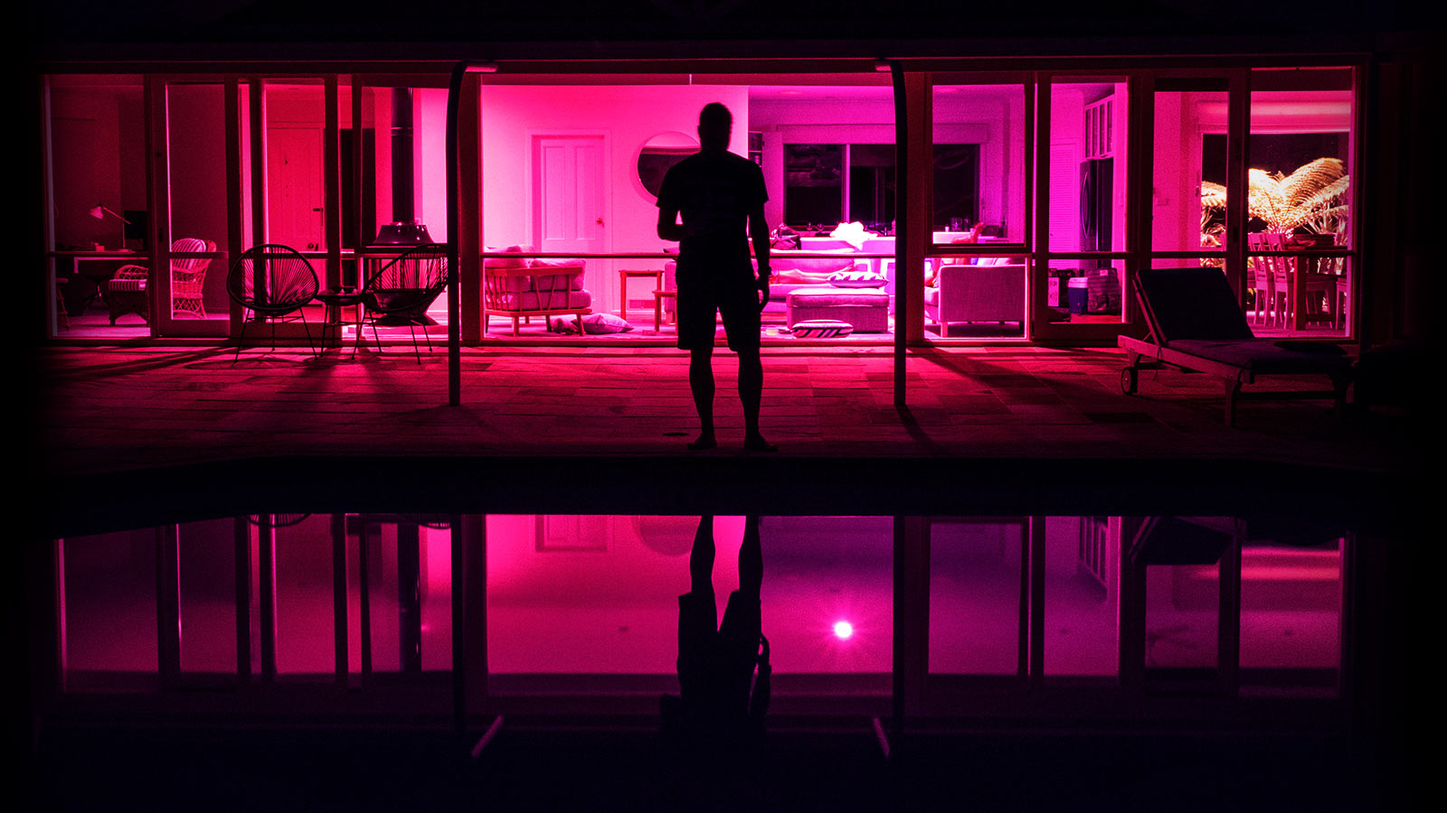
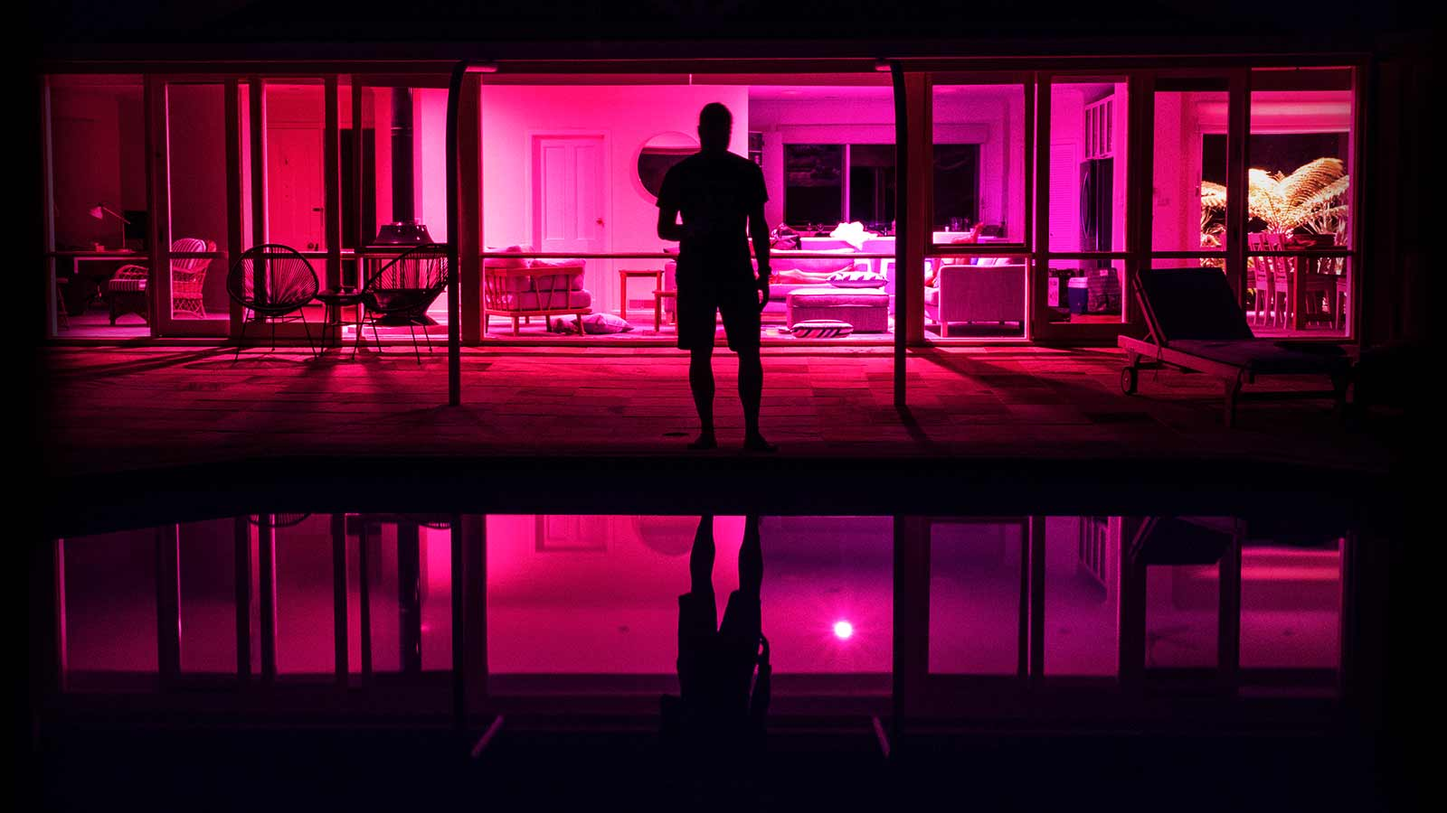
Remove unused images. Improve compression of masthead background

diff --git a/docs/styles/main.css b/docs/styles/main.css
@@ -1,1 +1,1 @@
-/*! normalize.css v5.0.0 | MIT License | github.com/necolas/normalize.css */html{font-family:sans-serif;line-height:1.15;-ms-text-size-adjust:100%;-webkit-text-size-adjust:100%}body{margin:0}article,aside,footer,header,nav,section{display:block}h1{font-size:2em;margin:.67em 0}main{display:block}hr{box-sizing:content-box;height:0;overflow:visible}pre{font-family:monospace,monospace;font-size:1em}a{background-color:transparent;-webkit-text-decoration-skip:objects}a:active,a:hover{outline-width:0}b,strong{font-weight:inherit;font-weight:bolder}code{font-family:monospace,monospace;font-size:1em}mark{background-color:#ff0;color:#000}small{font-size:80%}audio,video{display:inline-block}img{border-style:none}svg:not(:root){overflow:hidden}button,input,select,textarea{font-family:sans-serif;font-size:100%;line-height:1.15;margin:0}button,input{overflow:visible}button,select{text-transform:none}[type=submit],button,html [type=button]{-webkit-appearance:button}[type=button]::-moz-focus-inner,[type=submit]::-moz-focus-inner,button::-moz-focus-inner{border-style:none;padding:0}[type=button]:-moz-focusring,[type=submit]:-moz-focusring,button:-moz-focusring{outline:1px dotted ButtonText}progress{display:inline-block;vertical-align:baseline}textarea{overflow:auto}[type=checkbox],[type=radio]{box-sizing:border-box;padding:0}[type=number]::-webkit-inner-spin-button,[type=number]::-webkit-outer-spin-button{height:auto}[type=search]{-webkit-appearance:textfield;outline-offset:-2px}[type=search]::-webkit-search-cancel-button,[type=search]::-webkit-search-decoration{-webkit-appearance:none}::-webkit-file-upload-button{-webkit-appearance:button;font:inherit}details,menu{display:block}summary{display:list-item}canvas{display:inline-block}html{box-sizing:border-box}*,:after,:before{box-sizing:inherit}@-ms-viewport{width:device-width}html{-ms-overflow-style:scrollbar;-webkit-tap-highlight-color:transparent}body{font-family:-apple-system,system-ui,BlinkMacSystemFont,Segoe UI,Roboto,Helvetica Neue,Arial,sans-serif;font-size:1rem;font-weight:400;line-height:1.5;color:rgba(0,0,0,.75);background-color:#fff}[tabindex="-1"]:focus{outline:none!important}h1,h2,h3,h4{margin-top:0}dl,ol,p,ul{margin-top:0;margin-bottom:1rem}ol ol,ul ul{margin-bottom:0}dt{font-weight:700}dd{margin-bottom:.5rem;margin-left:0}a{color:#6c1dae;text-decoration:none}a:focus,a:hover{color:#43126c;text-decoration:underline}a:not([href]):not([tabindex]),a:not([href]):not([tabindex]):focus,a:not([href]):not([tabindex]):hover{color:inherit;text-decoration:none}a:not([href]):not([tabindex]):focus{outline:0}pre{margin-top:0;margin-bottom:1rem;overflow:auto}img{vertical-align:middle}a,button,input,label,select,summary,textarea{-ms-touch-action:manipulation;touch-action:manipulation}table{border-collapse:collapse;background-color:transparent}caption{padding-top:.75rem;padding-bottom:.75rem;color:hsla(0,0%,100%,.5);caption-side:bottom}caption,th{text-align:left}label{display:inline-block;margin-bottom:.5rem}button:focus{outline:1px dotted;outline:5px auto -webkit-focus-ring-color}button,input,select,textarea{line-height:inherit}input[type=checkbox]:disabled,input[type=radio]:disabled{cursor:not-allowed}input[type=date],input[type=time]{-webkit-appearance:listbox}textarea{resize:vertical}input[type=search]{-webkit-appearance:none}h1,h2,h3,h4{margin-bottom:.5rem;font-family:inherit;font-weight:500;line-height:1.1;color:inherit}h1{font-size:2.5rem}h2{font-size:2rem}h3{font-size:1.75rem}h4{font-size:1.5rem}.lead{font-size:1.25rem;font-weight:300}hr{margin-top:1rem;margin-bottom:1rem;border:0;border-top:1px solid rgba(0,0,0,.1)}.small,small{font-size:80%;font-weight:400}mark{padding:.2em;background-color:#fcf8e3}.container{position:relative;margin-left:auto;margin-right:auto;padding-right:15px;padding-left:15px}@media (min-width:576px){.container{padding-right:15px;padding-left:15px}}@media (min-width:768px){.container{padding-right:15px;padding-left:15px}}@media (min-width:992px){.container{padding-right:15px;padding-left:15px}}@media (min-width:1200px){.container{padding-right:15px;padding-left:15px}}@media (min-width:576px){.container{width:540px;max-width:100%}}@media (min-width:768px){.container{width:720px;max-width:100%}}@media (min-width:992px){.container{width:960px;max-width:100%}}@media (min-width:1200px){.container{width:1140px;max-width:100%}}.row{display:-webkit-box;display:-ms-flexbox;display:flex;-ms-flex-wrap:wrap;flex-wrap:wrap;margin-right:-15px;margin-left:-15px}@media (min-width:576px){.row{margin-right:-15px;margin-left:-15px}}@media (min-width:768px){.row{margin-right:-15px;margin-left:-15px}}@media (min-width:992px){.row{margin-right:-15px;margin-left:-15px}}@media (min-width:1200px){.row{margin-right:-15px;margin-left:-15px}}.col-4,.col-6,.col-lg-2,.col-lg-4,.col-lg-8,.col-md-3,.col-sm-4,.col-sm-5,.col-sm-6,.col-sm-7{position:relative;width:100%;min-height:1px;padding-right:15px;padding-left:15px}@media (min-width:576px){.col-4,.col-6,.col-lg-2,.col-lg-4,.col-lg-8,.col-md-3,.col-sm-4,.col-sm-5,.col-sm-6,.col-sm-7{padding-right:15px;padding-left:15px}}@media (min-width:768px){.col-4,.col-6,.col-lg-2,.col-lg-4,.col-lg-8,.col-md-3,.col-sm-4,.col-sm-5,.col-sm-6,.col-sm-7{padding-right:15px;padding-left:15px}}@media (min-width:992px){.col-4,.col-6,.col-lg-2,.col-lg-4,.col-lg-8,.col-md-3,.col-sm-4,.col-sm-5,.col-sm-6,.col-sm-7{padding-right:15px;padding-left:15px}}@media (min-width:1200px){.col-4,.col-6,.col-lg-2,.col-lg-4,.col-lg-8,.col-md-3,.col-sm-4,.col-sm-5,.col-sm-6,.col-sm-7{padding-right:15px;padding-left:15px}}.col-4{-ms-flex:0 0 33.3333333333%;flex:0 0 33.3333333333%;max-width:33.3333333333%}.col-4,.col-6{-webkit-box-flex:0}.col-6{-ms-flex:0 0 50%;flex:0 0 50%;max-width:50%}@media (min-width:576px){.col-sm-4{-webkit-box-flex:0;-ms-flex:0 0 33.3333333333%;flex:0 0 33.3333333333%;max-width:33.3333333333%}.col-sm-5{-webkit-box-flex:0;-ms-flex:0 0 41.6666666667%;flex:0 0 41.6666666667%;max-width:41.6666666667%}.col-sm-6{-webkit-box-flex:0;-ms-flex:0 0 50%;flex:0 0 50%;max-width:50%}.col-sm-7{-webkit-box-flex:0;-ms-flex:0 0 58.3333333333%;flex:0 0 58.3333333333%;max-width:58.3333333333%}}@media (min-width:768px){.col-md-3{-webkit-box-flex:0;-ms-flex:0 0 25%;flex:0 0 25%;max-width:25%}}@media (min-width:992px){.col-lg-2{-webkit-box-flex:0;-ms-flex:0 0 16.6666666667%;flex:0 0 16.6666666667%;max-width:16.6666666667%}.col-lg-4{-webkit-box-flex:0;-ms-flex:0 0 33.3333333333%;flex:0 0 33.3333333333%;max-width:33.3333333333%}.col-lg-8{-webkit-box-flex:0;-ms-flex:0 0 66.6666666667%;flex:0 0 66.6666666667%;max-width:66.6666666667%}}.collapse{display:none}.nav-link{display:block;padding:.5em 1em}.nav-link:focus,.nav-link:hover{text-decoration:none}.navbar{position:relative;padding:.5rem 1rem}.navbar,.navbar-nav{display:-webkit-box;display:-ms-flexbox;display:flex;-webkit-box-orient:vertical;-webkit-box-direction:normal;-ms-flex-direction:column;flex-direction:column}.navbar-nav{padding-left:0;margin-bottom:0;list-style:none}.navbar-nav .nav-link{padding-right:0;padding-left:0}.navbar-toggler{-ms-flex-item-align:start;align-self:flex-start;padding:.25rem .75rem;font-size:1.25rem;line-height:1;background:transparent;border:1px solid transparent;border-radius:.25rem}.navbar-toggler:focus,.navbar-toggler:hover{text-decoration:none}@media (max-width:767px){.navbar-toggleable-sm>.container{padding-right:0;padding-left:0}}@media (min-width:768px){.navbar-toggleable-sm{-ms-flex-wrap:nowrap;flex-wrap:nowrap;-webkit-box-align:center;-ms-flex-align:center;align-items:center}.navbar-toggleable-sm,.navbar-toggleable-sm .navbar-nav{-webkit-box-orient:horizontal;-webkit-box-direction:normal;-ms-flex-direction:row;flex-direction:row}.navbar-toggleable-sm .navbar-nav .nav-link{padding-right:.5rem;padding-left:.5rem}.navbar-toggleable-sm>.container{display:-webkit-box;display:-ms-flexbox;display:flex;-ms-flex-wrap:nowrap;flex-wrap:nowrap;-webkit-box-align:center;-ms-flex-align:center;align-items:center}.navbar-toggleable-sm .navbar-collapse{display:-webkit-box!important;display:-ms-flexbox!important;display:flex!important;width:100%}.navbar-toggleable-sm .navbar-toggler{display:none}}.list-group{-webkit-box-orient:vertical;-ms-flex-direction:column;flex-direction:column;padding-left:0;margin-bottom:0}.list-group,.list-group-item{display:-webkit-box;display:-ms-flexbox;display:flex;-webkit-box-direction:normal}.list-group-item{position:relative;-webkit-box-orient:horizontal;-ms-flex-flow:row wrap;flex-flow:row wrap;-webkit-box-align:center;-ms-flex-align:center;align-items:center;padding:.75rem 1.25rem;margin-bottom:-1px;background-color:#fff;border:1px solid rgba(0,0,0,.125)}.list-group-item:first-child{border-top-right-radius:.25rem;border-top-left-radius:.25rem}.list-group-item:last-child{margin-bottom:0;border-bottom-right-radius:.25rem;border-bottom-left-radius:.25rem}.list-group-item:focus,.list-group-item:hover{text-decoration:none}.list-group-item:disabled{color:hsla(0,0%,100%,.5);cursor:not-allowed;background-color:#fff}.justify-content-between{-webkit-box-pack:justify!important;-ms-flex-pack:justify!important;justify-content:space-between!important}.float-right{float:right!important}.fixed-top{position:fixed;top:0;right:0;left:0;z-index:1030}.text-center{text-align:center!important}.text-white{color:#fff!important}.text-muted{color:hsla(0,0%,100%,.5)!important}@media (max-width:767px){.hidden-sm-down{display:none!important}}@media (min-width:768px){.hidden-md-up{display:none!important}}h1,h2,h3,h4{font-family:Pacifico,cursive;margin-bottom:1rem;margin-top:.5rem}h1{font-size:3.5rem}.section-heading{text-align:center;border-bottom:1px solid rgba(255,40,163,.5);color:#60dbd9;margin-bottom:2rem}.section-heading h1{padding-bottom:1rem}a{color:#ff28a3;transition:all .35s}a:focus,a:hover{outline:0;color:#6c1dae}::-moz-selection{text-shadow:none;color:#fff;background:#ff28a3}::selection{text-shadow:none;color:#fff;background:#ff28a3}img::selection{color:#fff;background:#ff28a3}img::-moz-selection{color:#fff;background:#ff28a3}.masthead{position:relative;background-image:url(../images/outrun_masthead_mobile.jpg);background-color:#000;background-repeat:no-repeat;background-attachment:fixed;background-size:contain;background-position:top;min-height:225px;text-align:center;color:#fff;width:100%;min-height:60%}.masthead .header-content{position:relative;width:100%;position:absolute;top:50%;padding:45px 30px;text-align:center;z-index:2}.masthead .masthead-title{margin-top:0;margin-bottom:0}@media (min-width:768px){.masthead{background-image:url(../images/outrun_masthead_desktop.jpg)}}@media (min-width:1200px){.masthead{background-size:cover;min-height:100%}.masthead .header-content{padding:100px 50px}.masthead .masthead-title{margin-right:auto;margin-left:auto;max-width:1200px}}.navbar{transition:all .4s}.navbar-toggleable-sm .navbar-collapse{-webkit-box-pack:end;-ms-flex-pack:end;justify-content:flex-end}@media (max-width:991px){.navbar .navbar-nav>.nav-item{float:none;margin-left:.1rem}.navbar .navbar-nav{float:none!important}}@media (min-width:768px){.navbar{border-color:transparent;background-color:transparent;min-height:60px}.navbar .navbar-nav>li>a,.navbar .navbar-nav>li>a:focus{color:#fff;font-family:Pacifico,cursive;font-weight:400;font-size:1.5rem;transition:all .25s linear;text-shadow:hsla(0,0%,100%,.5) 0 0 10px,hsla(0,0%,100%,.5) 0 0 15px,cyan 0 0 20px,cyan 0 0 30px}.navbar .navbar-nav>li>a:focus:hover,.navbar .navbar-nav>li>a:hover{text-shadow:hsla(0,0%,100%,.5) 0 0 10px,hsla(0,0%,100%,.5) 0 0 15px,#ff00de 0 0 20px,#ff00de 0 0 30px}#topNav{background:linear-gradient(180deg,rgba(0,0,0,.65) 0,transparent)}}.timeline{border-left:3px solid #60dbd9;border-bottom-right-radius:2px;border-top-right-radius:2px;position:relative;padding-left:30px}.timeline-item{position:relative;margin-bottom:45px}.timeline-item:last-child{margin-bottom:0}.timeline-item:before{left:-43px;top:0;width:22px;height:22px;border-radius:50%;background-clip:padding-box;background:#000;border:3px solid #ff28a3}.timeline-item:after,.timeline-item:before{content:" ";position:absolute;display:inline-block}.timeline-item:after{left:-37px;top:6px;width:10px;height:10px;border-radius:50%;background-clip:padding-box;background:#60dbd9;z-index:10}.timeline .timeline-header{position:relative}.timeline .timeline-location{color:#60dbd9}.timeline .timeline-place{margin-top:.25em;margin-bottom:.5em;font-size:1.5rem;color:#fff}.timeline .timeline-meta{margin-bottom:.25em;text-align:left}.timeline .timeline-title{font-size:1.1rem;color:#60dbd9;line-height:1.2}.timeline .timeline-description,.timeline .timeline-period{color:hsla(0,0%,100%,.75)}@media (min-width:768px){.timeline{padding-right:30px;margin-left:280px}.timeline .timeline-meta{position:absolute;left:-280px;width:220px;top:0;text-align:right}.timeline .timeline-place{margin-top:0;padding-right:130px}.timeline .timeline-location{position:absolute;right:0;top:2px}}.grid-controls{background:rgba(0,0,0,.25);padding:0;margin:1rem 0}.grid-controls .control{font-family:Roboto Condensed,sans-serif;position:relative;display:inline-block;width:auto;height:2.5rem;background:transparent;cursor:pointer;font-size:1rem;padding-left:15px;padding-right:15px;margin-right:5px;color:#fff;border:1px solid transparent;transition:background .15s;text-transform:uppercase;font-weight:500}.grid-controls .control:not(.control-active):hover{border-color:#ff28a3;color:#ff28a3}.grid-controls .control:active,.grid-controls .control:focus{outline:none}.grid-controls .control:first-of-type{border-radius:3px 0 0 3px}.grid-controls .control:last-of-type{border-radius:0 3px 3px 0}.grid-container{min-height:300px}.grid-container .gap,.grid-container .item{display:inline-block;vertical-align:top}.grid-container .item div{background:#222;border-top:.5rem solid rgba(0,0,0,.5);border-radius:.25rem;margin-bottom:30px;position:relative;text-align:center;max-height:200px;padding-top:15px;padding-bottom:15px}.grid-container .item .name{display:block;padding-top:1rem;font-size:1rem;color:hsla(0,0%,100%,.75)}.grid-container .item .icon{height:auto;max-height:100px;max-width:100px;display:inline-block}span[class^=proficiency-]{display:block;border:1px solid #60dbd9;padding:3px;height:16px;min-width:80px;margin:5px 30px;position:relative}span[class^=proficiency-]:after,span[class^=proficiency-]:before,span[class^=proficiency-] b:after,span[class^=proficiency-] b:before{content:" ";position:absolute;visibility:hidden;top:4px;background:#fff;height:5px;width:20%}span.proficiency-1:before,span.proficiency-2:before,span.proficiency-3:before,span.proficiency-4:before{visibility:visible;left:5%}span.proficiency-2:after,span.proficiency-3:after,span.proficiency-4:after{visibility:visible;left:28%}span.proficiency-3 b:before,span.proficiency-4 b:before{visibility:visible;left:52%}span.proficiency-4 b:after{visibility:visible;left:76%}.marg-right-0{margin-right:0!important}.padd-vert-60{padding-top:60px;padding-bottom:60px}.padd-vert-120{padding-top:120px;padding-bottom:120px}.padd-top-30{padding-top:30px}.img-responsive{max-width:100%;width:100%;display:inline-block;height:auto}.box-outline{border:1px solid rgba(0,0,0,.5);padding:15px;border-radius:.25rem}.box-outline-info{border-color:#60dbd9}body,html{width:100%;height:100%}body{font-family:Roboto Condensed,sans-serif;color:hsla(0,0%,100%,.84);-webkit-tap-highlight-color:#ff28a3;top:0;background-color:#111}.bg-black,.bg-tron{background-color:#000}.bg-tron{background-image:linear-gradient(0deg,transparent,rgba(96,219,217,.1) 2px,transparent 4px),linear-gradient(90deg,transparent,rgba(96,219,217,.1) 2px,transparent 4px);background-size:48px 48px;height:auto;position:relative;-webkit-transform:rotateX(10deg);transform:rotateX(10deg);-webkit-transform-origin:center top;transform-origin:center top}.list-group-info .list-group-item{background:transparent;color:#60dbd9;border-color:#60dbd9}
+/*! normalize.css v5.0.0 | MIT License | github.com/necolas/normalize.css */html{font-family:sans-serif;line-height:1.15;-ms-text-size-adjust:100%;-webkit-text-size-adjust:100%}body{margin:0}article,aside,footer,header,nav,section{display:block}h1{font-size:2em;margin:.67em 0}main{display:block}hr{box-sizing:content-box;height:0;overflow:visible}pre{font-family:monospace,monospace;font-size:1em}a{background-color:transparent;-webkit-text-decoration-skip:objects}a:active,a:hover{outline-width:0}b,strong{font-weight:inherit;font-weight:bolder}code{font-family:monospace,monospace;font-size:1em}mark{background-color:#ff0;color:#000}small{font-size:80%}audio,video{display:inline-block}img{border-style:none}svg:not(:root){overflow:hidden}button,input,select,textarea{font-family:sans-serif;font-size:100%;line-height:1.15;margin:0}button,input{overflow:visible}button,select{text-transform:none}[type=submit],button,html [type=button]{-webkit-appearance:button}[type=button]::-moz-focus-inner,[type=submit]::-moz-focus-inner,button::-moz-focus-inner{border-style:none;padding:0}[type=button]:-moz-focusring,[type=submit]:-moz-focusring,button:-moz-focusring{outline:1px dotted ButtonText}progress{display:inline-block;vertical-align:baseline}textarea{overflow:auto}[type=checkbox],[type=radio]{box-sizing:border-box;padding:0}[type=number]::-webkit-inner-spin-button,[type=number]::-webkit-outer-spin-button{height:auto}[type=search]{-webkit-appearance:textfield;outline-offset:-2px}[type=search]::-webkit-search-cancel-button,[type=search]::-webkit-search-decoration{-webkit-appearance:none}::-webkit-file-upload-button{-webkit-appearance:button;font:inherit}details,menu{display:block}summary{display:list-item}canvas{display:inline-block}html{box-sizing:border-box}*,:after,:before{box-sizing:inherit}@-ms-viewport{width:device-width}html{-ms-overflow-style:scrollbar;-webkit-tap-highlight-color:transparent}body{font-family:-apple-system,system-ui,BlinkMacSystemFont,Segoe UI,Roboto,Helvetica Neue,Arial,sans-serif;font-size:1rem;font-weight:400;line-height:1.5;color:rgba(0,0,0,.75);background-color:#fff}[tabindex="-1"]:focus{outline:none!important}h1,h2,h3,h4,h5{margin-top:0}dl,ol,p,ul{margin-top:0;margin-bottom:1rem}ol ol,ul ul{margin-bottom:0}dt{font-weight:700}dd{margin-bottom:.5rem;margin-left:0}a{color:#6c1dae;text-decoration:none}a:focus,a:hover{color:#43126c;text-decoration:underline}a:not([href]):not([tabindex]),a:not([href]):not([tabindex]):focus,a:not([href]):not([tabindex]):hover{color:inherit;text-decoration:none}a:not([href]):not([tabindex]):focus{outline:0}pre{margin-top:0;margin-bottom:1rem;overflow:auto}img{vertical-align:middle}a,button,input,label,select,summary,textarea{-ms-touch-action:manipulation;touch-action:manipulation}table{border-collapse:collapse;background-color:transparent}caption{padding-top:.75rem;padding-bottom:.75rem;color:hsla(0,0%,100%,.5);caption-side:bottom}caption,th{text-align:left}label{display:inline-block;margin-bottom:.5rem}button:focus{outline:1px dotted;outline:5px auto -webkit-focus-ring-color}button,input,select,textarea{line-height:inherit}input[type=checkbox]:disabled,input[type=radio]:disabled{cursor:not-allowed}input[type=date],input[type=time]{-webkit-appearance:listbox}textarea{resize:vertical}input[type=search]{-webkit-appearance:none}h1,h2,h3,h4,h5{margin-bottom:.5rem;font-family:inherit;font-weight:500;line-height:1.1;color:inherit}h1{font-size:2.5rem}h2{font-size:2rem}h3{font-size:1.75rem}h4{font-size:1.5rem}.lead,h5{font-size:1.25rem}.lead{font-weight:300}hr{margin-top:1rem;margin-bottom:1rem;border:0;border-top:1px solid rgba(0,0,0,.1)}.small,small{font-size:80%;font-weight:400}mark{padding:.2em;background-color:#fcf8e3}.container{position:relative;margin-left:auto;margin-right:auto;padding-right:15px;padding-left:15px}@media (min-width:576px){.container{padding-right:15px;padding-left:15px}}@media (min-width:768px){.container{padding-right:15px;padding-left:15px}}@media (min-width:992px){.container{padding-right:15px;padding-left:15px}}@media (min-width:1200px){.container{padding-right:15px;padding-left:15px}}@media (min-width:576px){.container{width:540px;max-width:100%}}@media (min-width:768px){.container{width:720px;max-width:100%}}@media (min-width:992px){.container{width:960px;max-width:100%}}@media (min-width:1200px){.container{width:1140px;max-width:100%}}.row{display:-webkit-box;display:-ms-flexbox;display:flex;-ms-flex-wrap:wrap;flex-wrap:wrap;margin-right:-15px;margin-left:-15px}@media (min-width:576px){.row{margin-right:-15px;margin-left:-15px}}@media (min-width:768px){.row{margin-right:-15px;margin-left:-15px}}@media (min-width:992px){.row{margin-right:-15px;margin-left:-15px}}@media (min-width:1200px){.row{margin-right:-15px;margin-left:-15px}}.col-4,.col-6,.col-lg-2,.col-lg-4,.col-lg-8,.col-md-3,.col-sm-4,.col-sm-5,.col-sm-6,.col-sm-7{position:relative;width:100%;min-height:1px;padding-right:15px;padding-left:15px}@media (min-width:576px){.col-4,.col-6,.col-lg-2,.col-lg-4,.col-lg-8,.col-md-3,.col-sm-4,.col-sm-5,.col-sm-6,.col-sm-7{padding-right:15px;padding-left:15px}}@media (min-width:768px){.col-4,.col-6,.col-lg-2,.col-lg-4,.col-lg-8,.col-md-3,.col-sm-4,.col-sm-5,.col-sm-6,.col-sm-7{padding-right:15px;padding-left:15px}}@media (min-width:992px){.col-4,.col-6,.col-lg-2,.col-lg-4,.col-lg-8,.col-md-3,.col-sm-4,.col-sm-5,.col-sm-6,.col-sm-7{padding-right:15px;padding-left:15px}}@media (min-width:1200px){.col-4,.col-6,.col-lg-2,.col-lg-4,.col-lg-8,.col-md-3,.col-sm-4,.col-sm-5,.col-sm-6,.col-sm-7{padding-right:15px;padding-left:15px}}.col-4{-ms-flex:0 0 33.3333333333%;flex:0 0 33.3333333333%;max-width:33.3333333333%}.col-4,.col-6{-webkit-box-flex:0}.col-6{-ms-flex:0 0 50%;flex:0 0 50%;max-width:50%}@media (min-width:576px){.col-sm-4{-webkit-box-flex:0;-ms-flex:0 0 33.3333333333%;flex:0 0 33.3333333333%;max-width:33.3333333333%}.col-sm-5{-webkit-box-flex:0;-ms-flex:0 0 41.6666666667%;flex:0 0 41.6666666667%;max-width:41.6666666667%}.col-sm-6{-webkit-box-flex:0;-ms-flex:0 0 50%;flex:0 0 50%;max-width:50%}.col-sm-7{-webkit-box-flex:0;-ms-flex:0 0 58.3333333333%;flex:0 0 58.3333333333%;max-width:58.3333333333%}}@media (min-width:768px){.col-md-3{-webkit-box-flex:0;-ms-flex:0 0 25%;flex:0 0 25%;max-width:25%}}@media (min-width:992px){.col-lg-2{-webkit-box-flex:0;-ms-flex:0 0 16.6666666667%;flex:0 0 16.6666666667%;max-width:16.6666666667%}.col-lg-4{-webkit-box-flex:0;-ms-flex:0 0 33.3333333333%;flex:0 0 33.3333333333%;max-width:33.3333333333%}.col-lg-8{-webkit-box-flex:0;-ms-flex:0 0 66.6666666667%;flex:0 0 66.6666666667%;max-width:66.6666666667%}}.collapse{display:none}.nav-link{display:block;padding:.5em 1em}.nav-link:focus,.nav-link:hover{text-decoration:none}.navbar{position:relative;padding:.5rem 1rem}.navbar,.navbar-nav{display:-webkit-box;display:-ms-flexbox;display:flex;-webkit-box-orient:vertical;-webkit-box-direction:normal;-ms-flex-direction:column;flex-direction:column}.navbar-nav{padding-left:0;margin-bottom:0;list-style:none}.navbar-nav .nav-link{padding-right:0;padding-left:0}.navbar-toggler{-ms-flex-item-align:start;align-self:flex-start;padding:.25rem .75rem;font-size:1.25rem;line-height:1;background:transparent;border:1px solid transparent;border-radius:.25rem}.navbar-toggler:focus,.navbar-toggler:hover{text-decoration:none}@media (max-width:767px){.navbar-toggleable-sm>.container{padding-right:0;padding-left:0}}@media (min-width:768px){.navbar-toggleable-sm{-ms-flex-wrap:nowrap;flex-wrap:nowrap;-webkit-box-align:center;-ms-flex-align:center;align-items:center}.navbar-toggleable-sm,.navbar-toggleable-sm .navbar-nav{-webkit-box-orient:horizontal;-webkit-box-direction:normal;-ms-flex-direction:row;flex-direction:row}.navbar-toggleable-sm .navbar-nav .nav-link{padding-right:.5rem;padding-left:.5rem}.navbar-toggleable-sm>.container{display:-webkit-box;display:-ms-flexbox;display:flex;-ms-flex-wrap:nowrap;flex-wrap:nowrap;-webkit-box-align:center;-ms-flex-align:center;align-items:center}.navbar-toggleable-sm .navbar-collapse{display:-webkit-box!important;display:-ms-flexbox!important;display:flex!important;width:100%}.navbar-toggleable-sm .navbar-toggler{display:none}}.list-group{-webkit-box-orient:vertical;-ms-flex-direction:column;flex-direction:column;padding-left:0;margin-bottom:0}.list-group,.list-group-item{display:-webkit-box;display:-ms-flexbox;display:flex;-webkit-box-direction:normal}.list-group-item{position:relative;-webkit-box-orient:horizontal;-ms-flex-flow:row wrap;flex-flow:row wrap;-webkit-box-align:center;-ms-flex-align:center;align-items:center;padding:.75rem 1.25rem;margin-bottom:-1px;background-color:#fff;border:1px solid rgba(0,0,0,.125)}.list-group-item:first-child{border-top-right-radius:.25rem;border-top-left-radius:.25rem}.list-group-item:last-child{margin-bottom:0;border-bottom-right-radius:.25rem;border-bottom-left-radius:.25rem}.list-group-item:focus,.list-group-item:hover{text-decoration:none}.list-group-item:disabled{color:hsla(0,0%,100%,.5);cursor:not-allowed;background-color:#fff}.justify-content-between{-webkit-box-pack:justify!important;-ms-flex-pack:justify!important;justify-content:space-between!important}.float-right{float:right!important}.fixed-top{position:fixed;top:0;right:0;left:0;z-index:1030}.text-center{text-align:center!important}.text-white{color:#fff!important}.text-muted{color:hsla(0,0%,100%,.5)!important}@media (max-width:767px){.hidden-sm-down{display:none!important}}@media (min-width:768px){.hidden-md-up{display:none!important}}h1,h2,h3,h4{font-family:Pacifico,cursive;margin-bottom:1rem;margin-top:.5rem}h1{font-size:3.5rem}h5{font-size:1.1rem}.section-heading{text-align:center;border-bottom:1px solid rgba(255,40,163,.5);color:#60dbd9;margin-bottom:2rem}.section-heading h1{padding-bottom:1rem}a{color:#ff28a3;transition:all .35s}a:focus,a:hover{outline:0;color:#6c1dae}::-moz-selection{text-shadow:none;color:#fff;background:#ff28a3}::selection{text-shadow:none;color:#fff;background:#ff28a3}img::selection{color:#fff;background:#ff28a3}img::-moz-selection{color:#fff;background:#ff28a3}.masthead{position:relative;background-image:url(../images/outrun_masthead_mobile.jpg);background-color:#000;background-repeat:no-repeat;background-attachment:fixed;background-size:contain;background-position:top;min-height:225px;text-align:center;color:#fff;width:100%;min-height:60%}.masthead .header-content{position:relative;width:100%;position:absolute;top:50%;padding:45px 30px;text-align:center;z-index:2}.masthead .masthead-title{margin-top:0;margin-bottom:0}@media (min-width:768px){.masthead{background-image:url(../images/outrun_masthead_desktop.jpg)}}@media (min-width:1200px){.masthead{background-size:cover;min-height:100%}.masthead .header-content{padding:100px 50px}.masthead .masthead-title{margin-right:auto;margin-left:auto;max-width:1200px}}.navbar{transition:all .4s}.navbar-toggleable-sm .navbar-collapse{-webkit-box-pack:end;-ms-flex-pack:end;justify-content:flex-end}@media (max-width:991px){.navbar .navbar-nav>.nav-item{float:none;margin-left:.1rem}.navbar .navbar-nav{float:none!important}}@media (min-width:768px){.navbar{border-color:transparent;background-color:transparent;min-height:60px}.navbar .navbar-nav>li>a,.navbar .navbar-nav>li>a:focus{color:#fff;font-family:Pacifico,cursive;font-weight:400;font-size:1.5rem;transition:all .25s linear;text-shadow:hsla(0,0%,100%,.5) 0 0 10px,hsla(0,0%,100%,.5) 0 0 15px,cyan 0 0 20px,cyan 0 0 30px}.navbar .navbar-nav>li>a:focus:hover,.navbar .navbar-nav>li>a:hover{text-shadow:hsla(0,0%,100%,.5) 0 0 10px,hsla(0,0%,100%,.5) 0 0 15px,#ff00de 0 0 20px,#ff00de 0 0 30px}#topNav{background:linear-gradient(180deg,rgba(0,0,0,.65) 0,transparent)}}.timeline{border-left:3px solid #60dbd9;border-bottom-right-radius:2px;border-top-right-radius:2px;position:relative;padding-left:30px}.timeline-item{position:relative;margin-bottom:45px}.timeline-item:last-child{margin-bottom:0}.timeline-item:before{left:-43px;top:0;width:22px;height:22px;border-radius:50%;background-clip:padding-box;background:#000;border:3px solid #ff28a3}.timeline-item:after,.timeline-item:before{content:" ";position:absolute;display:inline-block}.timeline-item:after{left:-37px;top:6px;width:10px;height:10px;border-radius:50%;background-clip:padding-box;background:#60dbd9;z-index:10}.timeline .timeline-header{position:relative}.timeline .timeline-location{color:#60dbd9}.timeline .timeline-place{margin-top:.25em;margin-bottom:.5em;font-size:1.5rem;color:#fff}.timeline .timeline-meta{margin-bottom:.25em;text-align:left}.timeline .timeline-title{font-size:1.1rem;color:#60dbd9;line-height:1.2}.timeline .timeline-description,.timeline .timeline-period{color:hsla(0,0%,100%,.75)}@media (min-width:768px){.timeline{padding-right:30px;margin-left:280px}.timeline .timeline-meta{position:absolute;left:-280px;width:220px;top:0;text-align:right}.timeline .timeline-place{margin-top:0;padding-right:130px}.timeline .timeline-location{position:absolute;right:0;top:2px}}.grid-controls{background:rgba(0,0,0,.25);padding:0;margin:1rem 0}.grid-controls .control{font-family:Roboto Condensed,sans-serif;position:relative;display:inline-block;width:auto;height:2.5rem;background:transparent;cursor:pointer;font-size:1rem;padding-left:15px;padding-right:15px;margin-right:5px;color:#fff;border:1px solid transparent;transition:background .15s;text-transform:uppercase;font-weight:500}.grid-controls .control:not(.control-active):hover{border-color:#ff28a3;color:#ff28a3}.grid-controls .control:active,.grid-controls .control:focus{outline:none}.grid-controls .control:first-of-type{border-radius:3px 0 0 3px}.grid-controls .control:last-of-type{border-radius:0 3px 3px 0}.grid-container{min-height:300px}.grid-container .gap,.grid-container .item{display:inline-block;vertical-align:top}.grid-container .item div{background:#222;border-top:.5rem solid rgba(0,0,0,.5);border-radius:.25rem;margin-bottom:30px;position:relative;text-align:center;max-height:200px;padding-top:15px;padding-bottom:15px}.grid-container .item .name{display:block;padding-top:1rem;font-size:1rem;color:hsla(0,0%,100%,.75)}.grid-container .item .icon{height:auto;max-height:100px;max-width:100px;display:inline-block}span[class^=proficiency-]{display:block;border:1px solid #60dbd9;padding:3px;height:16px;min-width:80px;margin:5px 30px;position:relative}span[class^=proficiency-]:after,span[class^=proficiency-]:before,span[class^=proficiency-] b:after,span[class^=proficiency-] b:before{content:" ";position:absolute;visibility:hidden;top:4px;background:#fff;height:5px;width:20%}span.proficiency-1:before,span.proficiency-2:before,span.proficiency-3:before,span.proficiency-4:before{visibility:visible;left:5%}span.proficiency-2:after,span.proficiency-3:after,span.proficiency-4:after{visibility:visible;left:28%}span.proficiency-3 b:before,span.proficiency-4 b:before{visibility:visible;left:52%}span.proficiency-4 b:after{visibility:visible;left:76%}.marg-right-0{margin-right:0!important}.padd-vert-60{padding-top:60px;padding-bottom:60px}.padd-vert-120{padding-top:120px;padding-bottom:120px}.padd-top-30{padding-top:30px}.img-responsive{max-width:100%;width:100%;display:inline-block;height:auto}.box-outline{border:1px solid rgba(0,0,0,.5);padding:15px;border-radius:.25rem}.box-outline-info{border-color:#60dbd9}body,html{width:100%;height:100%}body{font-family:Roboto Condensed,sans-serif;color:hsla(0,0%,100%,.84);-webkit-tap-highlight-color:#ff28a3;top:0;background-color:#111}.bg-black,.bg-tron{background-color:#000}.bg-tron{background-image:linear-gradient(0deg,transparent,rgba(96,219,217,.1) 2px,transparent 4px),linear-gradient(90deg,transparent,rgba(96,219,217,.1) 2px,transparent 4px);background-size:48px 48px;height:auto;position:relative;-webkit-transform:rotateX(10deg);transform:rotateX(10deg);-webkit-transform-origin:center top;transform-origin:center top}.list-group-info .list-group-item{background:transparent;color:#60dbd9;border-color:#60dbd9}
